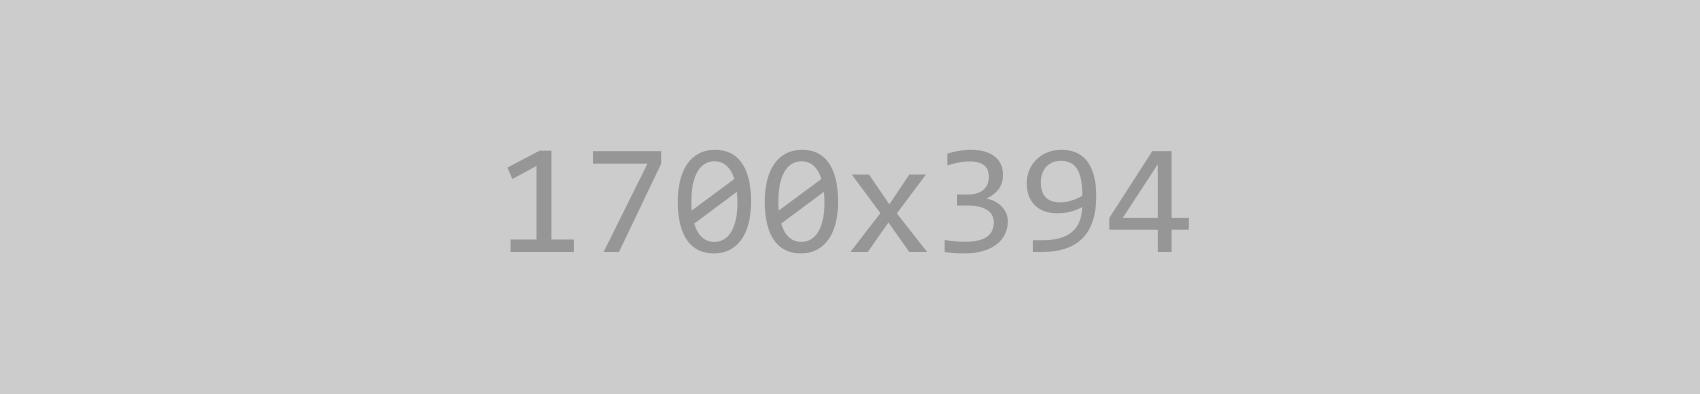
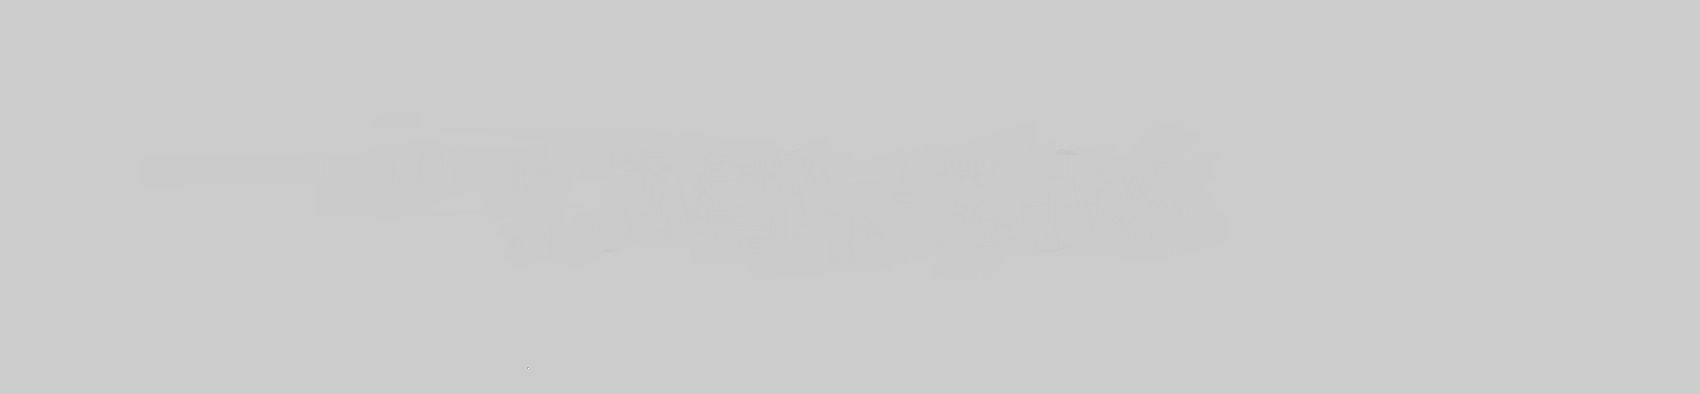
segundo commit

Changed region(s): [[0.2806, 0.3655, 0.7171, 0.6396]]

diff --git a/about.html b/about.html
@@ -5,7 +5,7 @@
     <meta charset="utf-8">
     <meta name="viewport" content="width=device-width, height=device-height, initial-scale=1.0">
     <meta http-equiv="X-UA-Compatible" content="IE=edge">
-    <link rel="icon" href="images/favicon.ico" type="image/x-icon">
+    <link rel="icon" href="images/icono.ico" type="image/x-icon">
     <link rel="stylesheet" type="text/css" href="//fonts.googleapis.com/css?family=Montserrat:300,400,700%7CPoppins:300,400,500,700,900">
     <link rel="stylesheet" href="css/bootstrap.css">
     <link rel="stylesheet" href="css/fonts.css">
@@ -72,7 +72,7 @@
                     <ul class="rd-navbar-nav">
                       <li class="rd-nav-item active"><a class="rd-nav-link" href="index.html">Inicio</a>
                       </li>
-                      <li class="rd-nav-item"><a class="rd-nav-link" href="about.html">Acerca</a>
+                      <li class="rd-nav-item"><a class="rd-nav-link" href="about.html">Acerca de nosotros</a>
                       </li>
                       <li class="rd-nav-item"><a class="rd-nav-link" href="contacts.html">Contacto</a>
                       </li>
@@ -85,12 +85,12 @@
         </div>
       </header>
       <section class="section section-intro context-dark">
-        <div class="intro-bg" style="background: url(images/intro-bg-1.jpg) no-repeat;background-size:cover;background-position: top center;"></div>
+        <div class="intro-bg" style="background: url(images/contact.jpg) no-repeat;background-size:cover;background-position: top center;"></div>
         <div class="container">
           <div class="row justify-content-center">
             <div class="col-xl-8 text-center">
-              <h1 class="font-weight-bold wow fadeInLeft">About Us</h1>
-              <p class="intro-description wow fadeInRight">Feel free to learn more about our team and company on this page. We are always happy to help you!</p>
+              <h1 class="font-weight-bold wow fadeInLeft">¿Quienes somos?</h1>
+              <p class="intro-description wow fadeInRight">Siéntase libre de aprender más sobre nuestro equipo y compañía en esta página. ¡Siempre estamos encantados de ayudarle! </p>
             </div>
           </div>
         </div>
@@ -101,16 +101,17 @@
           <div class="row row-40 justify-content-center">
             <div class="col-lg-6 col-12">
               <div class="offset-top-45 offset-lg-right-45">
-                <div class="section-name wow fadeInRight" data-wow-delay=".2s">About us</div>
-                <h3 class="wow fadeInLeft text-capitalize" data-wow-delay=".3s">A Few Words<span class="text-primary"> about us</span></h3>
-                <p class="font-weight-bold text-gray-dark wow fadeInUp" data-wow-delay=".4s">Lorem ipsum dolor sit amet, consectetur adipiscing elit. Etiam fermentum nulla ac tincidunt malesuada. Sed volutpat semper elit quis pharetra. Etiam sodales a sem vitae fermentum.</p>
-                <p class="wow fadeInUp" data-wow-delay=".4s">Sapien eget mi proin sed libero enim sed faucibus turpis. Placerat in egestas erat imperdiet sed euismod nisi. Vulputate eu scelerisque felis imperdiet. Lorem donec massa sapien faucibus. Volutpat diam.</p>
-                <p class="wow fadeInUp" data-wow-delay=".4s">Adipiscing enim eu turpis egestas pretium aenean pharetra magna. Nullam non nisi est sit amet facilisis magna etiam. Nec feugiat in fermentum posuere urna nec.</p>
+                <div class="section-name wow fadeInRight" data-wow-delay=".2s">Conocenos</div>
+                <h3 class="wow fadeInLeft text-capitalize" data-wow-delay=".3s">Unas pequeñas palabras<span class="text-primary"> Sobre nosotros</span></h3>
+                <p class="font-weight-bold text-gray-dark wow fadeInUp" data-wow-delay=".4s">Después del recurso humano, el equipo médico es el recurso mas importante en un hospital; ¿Que médico diagnostica, trata o ayuda a rehabilitar a sus pacientes sin un equipo médico?.</p>
+                <p class="wow fadeInUp" data-wow-delay=".4s">Es por eso que nuestra empresa, centra sus actividades en el mantenimiento de equipos medicos , para evitar fallas que en un futuro pudieran afectar, o en el peor de los casos, corregir las fallas que ya presenta la herramienta de trabajo </p>
+                <p class="wow fadeInUp" data-wow-delay=".4s">Podemos efectuar cualquier tipo de mantenimiento (Preventivo, Correctivo y preictivo).</p>
+                <p class="wow fadeInUp" data-wow-delay=".4s">Nuestra efectividad nos respalda </p>
                 <div class="offset-top-20">
                   <!--Linear progress bar-->
                   <article class="progress-linear">
                     <div class="progress-header progress-header-simple">
-                      <p>Management</p><span class="progress-value">85</span>
+                      <p>Mantenimiento correctivo</p><span class="progress-value">10</span>
                     </div>
                     <div class="progress-bar-linear-wrap">
                       <div class="progress-bar-linear"></div>
@@ -119,7 +120,7 @@
                   <!--Linear progress bar-->
                   <article class="progress-linear">
                     <div class="progress-header progress-header-simple">
-                      <p>Marketing</p><span class="progress-value">45</span>
+                      <p>Mantenimiento preventivo</p><span class="progress-value">45</span>
                     </div>
                     <div class="progress-bar-linear-wrap">
                       <div class="progress-bar-linear"></div>
@@ -128,7 +129,7 @@
                   <!--Linear progress bar-->
                   <article class="progress-linear">
                     <div class="progress-header progress-header-simple">
-                      <p>Analysis</p><span class="progress-value">90</span>
+                      <p>Mantenimiento predictivo</p><span class="progress-value">90</span>
                     </div>
                     <div class="progress-bar-linear-wrap">
                       <div class="progress-bar-linear"></div>
@@ -149,9 +150,9 @@
         <div class="container">
           <div class="row row-50 justify-content-center">
             <div class="col-md col-12 text-center">
-              <div class="section-name wow fadeInRight" data-wow-delay=".2s">People Behind Our Success</div>
-              <h3 class="wow fadeInLeft text-capitalize" data-wow-delay=".3s">Meet Our<span class="text-primary"> Team</span></h3>
-              <p class="block-675">Mi proin sed libero enim sed faucibus. Metus dictum at tempor commodo. Viverra justo nec ultrices dui sapien eget mi. Eget felis eget nunc lobortis.</p>
+              <div class="section-name wow fadeInRight" data-wow-delay=".2s">Personas detrás de nuestro éxito </div>
+              <h3 class="wow fadeInLeft text-capitalize" data-wow-delay=".3s">Conoce a nuestro equipo<span class="text-primary"> Team</span></h3>
+              <p class="block-675">Somos un par de ingenieros biomedicos especializados en el area de ingenieria clinica, con una experiencia de trabajo amplia. </p>
             </div>
           </div>
           <div class="row row-50 justify-content-center">
@@ -161,12 +162,12 @@
                 </div>
                 <div class="block-320 text-center">
                   <h4 class="font-weight-bold">Benjamin Isrrael Guillen Paz</h4><span class="d-block">CEO, Fundador</span>
-                  <p>Lamera cuerda del trompo.</p>
+                  <p>Ingenierio Biomedico</p>
                   <hr class="offset-top-40"/>
                   <ul class="justify-content-center social-links offset-top-30">
                     <li><a class="fa fa-linkedin" href="#"></a></li>
                     <li><a class="fa fa fa-twitter" href="#"></a></li>
-                    <li><a class="fa fa-facebook" href="#"></a></li>
+                    <li><a class="fa fa-facebook" href="https://www.facebook.com/benjaminisrael.guillenpaz"></a></li>
                     <li><a class="fa fa-instagram" href="#"></a></li>
                   </ul>
                 </div>
@@ -174,44 +175,28 @@
             </div>
             <div class="col-xl-4 col-sm-6 col-10 wow fadeInUp" data-wow-delay=".3s">
               <div class="team-classic-wrap">
-                <div class="team-classic-img"><img src="images/team-classic-2-370x397.jpg" alt="" width="370" height="198"/>
+                <div class="team-classic-img"><img src="images/ulises.jpg" alt="" width="370" height="198"/>
                 </div>
                 <div class="block-320 text-center">
-                  <h4 class="font-weight-bold">Jane McMillan</h4><span class="d-block">Business Advisor</span>
-                  <p>Ut morbi tincidunt augue interdum velit. Sed euismod nisi porta lorem nisl rhoncus mattis rhoncus urna sed.</p>
+                  <h4 class="font-weight-bold">Ulises Moreno</h4><span class="d-block">Consejero de negocios </span>
+                  <p>Ingenierio Biomedico.</p>
                   <hr class="offset-top-40"/>
                   <ul class="justify-content-center social-links offset-top-30">
                     <li><a class="fa fa-linkedin" href="#"></a></li>
                     <li><a class="fa fa fa-twitter" href="#"></a></li>
-                    <li><a class="fa fa-facebook" href="#"></a></li>
-                    <li><a class="fa fa-instagram" href="#"></a></li>
+                    <li><a class="fa fa-facebook" href="https://www.facebook.com/ulises.morenocruz"></a></li>
+                    <li><a class="fa fa-instagram" href="https://www.instagram.com/_ulisesmoreno_/"></a></li>
                   </ul>
                 </div>
               </div>
             </div>
-            <div class="col-xl-4 col-sm-6 col-10 wow fadeInRight" data-wow-delay=".3s">
-              <div class="team-classic-wrap">
-                <div class="team-classic-img"><img src="images/team-classic-3-370x397.jpg" alt="" width="370" height="198"/>
-                </div>
-                <div class="block-320 text-center">
-                  <h4 class="font-weight-bold">Robert Smith</h4><span class="d-block">Marketing Manager</span>
-                  <p>Vitae aliquet nec ullamcorper sit amet risus nullam eget felis. Euismod lacinia at quis risus sed vulputate.</p>
-                  <hr class="offset-top-40"/>
-                  <ul class="justify-content-center social-links offset-top-30">
-                    <li><a class="fa fa-linkedin" href="#"></a></li>
-                    <li><a class="fa fa fa-twitter" href="#"></a></li>
-                    <li><a class="fa fa-facebook" href="#"></a></li>
-                    <li><a class="fa fa-instagram" href="#"></a></li>
-                  </ul>
-                </div>
-              </div>
-            </div>
+           
           </div>
         </div>
       </section>
       
       <!--Cta section-->
-      <section class="section section-md" style="background:url(images/bg-image-4-1700x394.jpg) no-repeat; background-size: cover;">
+      <section class="section section-md" style="background:url(images/bg-image-4-1700x394.jpg); background-size:cover;">
         <div class="container">
           <div class="row justify-content-center">
             <div class="col-md-10 col-12 text-center"><span class="text-white d-block cta-big-text font-weight-medium">¿Todavía te quedan algunas preguntas?</span>

diff --git a/contacts.html b/contacts.html
@@ -5,7 +5,7 @@
     <meta charset="utf-8">
     <meta name="viewport" content="width=device-width, height=device-height, initial-scale=1.0">
     <meta http-equiv="X-UA-Compatible" content="IE=edge">
-    <link rel="icon" href="images/favicon.ico" type="image/x-icon">
+    <link rel="icon" href="images/icono.ico" type="image/x-icon">
     <link rel="stylesheet" type="text/css" href="//fonts.googleapis.com/css?family=Montserrat:300,400,700%7CPoppins:300,400,500,700,900">
     <link rel="stylesheet" href="css/bootstrap.css">
     <link rel="stylesheet" href="css/fonts.css">
@@ -72,7 +72,7 @@
                     <ul class="rd-navbar-nav">
                       <li class="rd-nav-item active"><a class="rd-nav-link" href="index.html">Inicio</a>
                       </li>
-                      <li class="rd-nav-item"><a class="rd-nav-link" href="about.html">Acerca</a>
+                      <li class="rd-nav-item"><a class="rd-nav-link" href="about.html">Acerca de nosotros</a>
                       </li>
                       <li class="rd-nav-item"><a class="rd-nav-link" href="contacts.html">Contacto</a>
                       </li>
@@ -85,12 +85,12 @@
         </div>
       </header>
       <section class="section section-intro context-dark">
-        <div class="intro-bg" style="background: url(images/intro-bg-1.jpg) no-repeat;background-size:cover;background-position: top center;"></div>
+        <div class="intro-bg" style="background: url(images/about-us.png) no-repeat;background-size:cover;background-position: top center;"></div>
         <div class="container">
           <div class="row justify-content-center">
             <div class="col-xl-8 text-center">
-              <h1 class="font-weight-bold wow fadeInLeft">Contacts</h1>
-              <p class="intro-description wow fadeInRight">Ut enim ad minim laboris nisi ut aliquip ex ea commodo consequat.</p>
+              <h1 class="font-weight-bold wow fadeInLeft">Contacto</h1>
+              <p class="intro-description wow fadeInRight">Mandanos un correo con tus datos y enseguida te contestamos para poder hacer una cotizacion</p>
             </div>
           </div>
         </div>

diff --git a/index.html b/index.html
@@ -207,7 +207,7 @@
         </div>
         <div class="container wow fadeInUp" data-wow-delay=".4s">
           <div class="footer-classic-aside">
-            <p class="rights"><span>&copy;&nbsp;</span><span class="copyright-year"></span>. All Rights Reserved. Design by <a href="https://www.templatemonster.com">TemplateMonster</a></p>
+            <p class="rights"><span>&copy;&nbsp;</span><span class="copyright-year"></span>. All Rights Reserved. Design by <a href="https://www.facebook.com/mibaneztoledo">Jose Miguel Ibañez Toledo</a></p>
             <ul class="social-links">
               <li><a class="fa fa-facebook" href="https://www.facebook.com/BenQ.Technology/?ref=page_internal"></a></li>
               <li><a class="fa fa-instagram" href="https://www.instagram.com/p/CW3m54LJZsr/"></a></li>
